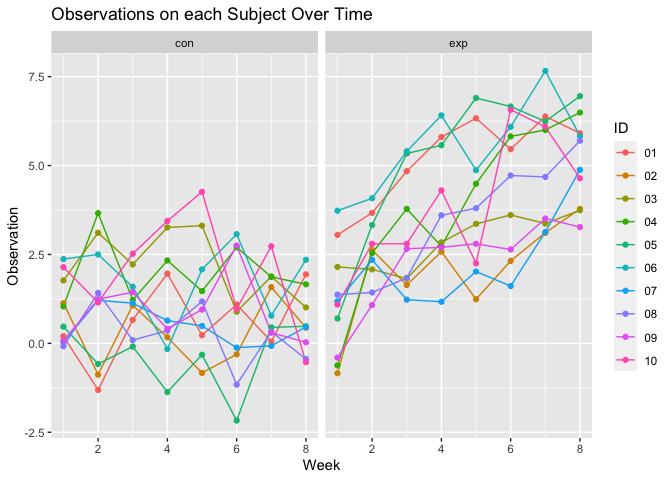
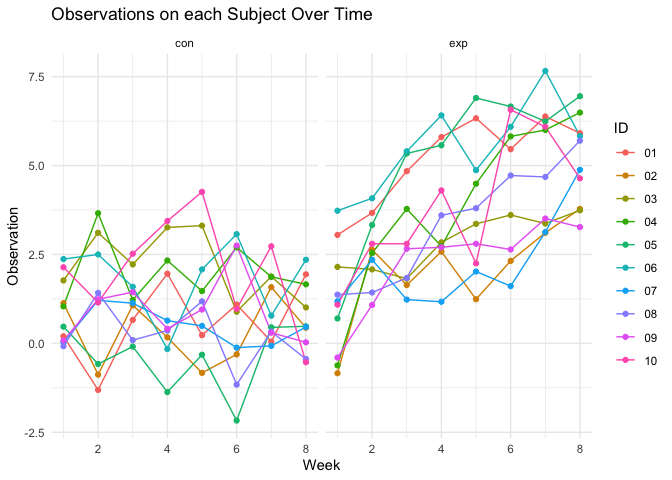
prob 3.. run test 5000 x mu 0:6

diff --git a/p8105_hw5_hj2660.md b/p8105_hw5_hj2660.md
@@ -127,7 +127,7 @@ tidy_df = comb_df |>
   mutate(
     files = str_replace(files, ".csv", ""),
     group = str_sub(files, 1, 3),
-    ID = str_sub(files, 5, 7)) |>
+    ID = str_sub(files, 5, 6)) |>
   pivot_longer(week_1:week_8,names_to = "week", values_to = "observation",names_prefix = "week_") |>
   mutate(week = as.numeric(week)) |>
   select(group, ID, week, observation)
@@ -159,9 +159,96 @@ spagetti_plot = tidy_df |>
   geom_line() +
   geom_point() + 
   facet_grid(~group) +
-  labs(x = 'Week', y = 'Observation', title = 'Observations on each Subject Over Time')
+  labs(x = 'Week', y = 'Observation', title = 'Observations on each Subject Over Time') +
+  theme_minimal()
 
 spagetti_plot
 ```
 
 ![](p8105_hw5_hj2660_files/figure-gfm/unnamed-chunk-7-1.png)<!-- -->
+
+Within the control group, observations for each subject fluctuate around
+a consistent value, while the experimental group exhibits a noticeable
+trend of increasing observations among subjects as the weeks progress.
+
+## Problem 3
+
+``` r
+set.seed(12345)
+```
+
+We define a function that conducts a one-sample t-test with parameters
+set to n = 30, mu = 0, sigma = 5, and a significance level of 0.05.
+
+``` r
+t_test_sim = function(n = 30, mu = mu, sd = 5) {
+  data = tibble(
+    x = rnorm(n = 30, mean = mu, sd = 5))
+  t_test = 
+    t.test(pull(data, x), mean = 0, conf.level = 1 - 0.05) |>
+    broom::tidy()
+  
+  return(tibble(
+    mu = mu,
+    mu_hat = pull(t_test, estimate),
+    p_value = pull(t_test, p.value)))
+}
+
+t_test_sim(mu = 0)
+```
+
+    ## # A tibble: 1 × 3
+    ##      mu mu_hat p_value
+    ##   <dbl>  <dbl>   <dbl>
+    ## 1     0  0.394   0.649
+
+Run the test 5000 times.
+
+``` r
+output = vector("list", 5000)
+
+for (i in 1:5000) {
+  output[[i]] = t_test_sim(n = 30, mu = 0, sd = 5)
+}
+
+sim_results_mu_0 = bind_rows(output)
+
+sim_results_mu_0
+```
+
+    ## # A tibble: 5,000 × 3
+    ##       mu  mu_hat p_value
+    ##    <dbl>   <dbl>   <dbl>
+    ##  1     0  1.56    0.195 
+    ##  2     0  2.18    0.0363
+    ##  3     0  0.126   0.895 
+    ##  4     0 -0.278   0.806 
+    ##  5     0  0.0257  0.978 
+    ##  6     0  0.686   0.341 
+    ##  7     0  0.280   0.765 
+    ##  8     0  0.0198  0.981 
+    ##  9     0 -0.919   0.269 
+    ## 10     0  1.64    0.0917
+    ## # ℹ 4,990 more rows
+
+Repeat the above for μ={1,2,3,4,5,6}.
+
+``` r
+sim_results_all =
+  expand_grid(
+    mu_values = 0:6,
+    iter = 1:5000) |>
+  mutate(
+    estimate_df = pmap(list(n = 30, mu = mu_values), t_test_sim)) |>
+  unnest(estimate_df)
+```
+
+Make a plot showing the proportion of times the null was rejected (the
+power of the test) on the y axis and the true value of μ on the x axis.
+Describe the association between effect size and power. Make a plot
+showing the average estimate of μ̂ on the y axis and the true value of μ
+on the x axis. Make a second plot (or overlay on the first) the average
+estimate of μ̂ only in samples for which the null was rejected on the y
+axis and the true value of μ on the x axis. Is the sample average of μ̂
+across tests for which the null is rejected approximately equal to the
+true value of μ ? Why or why not?
